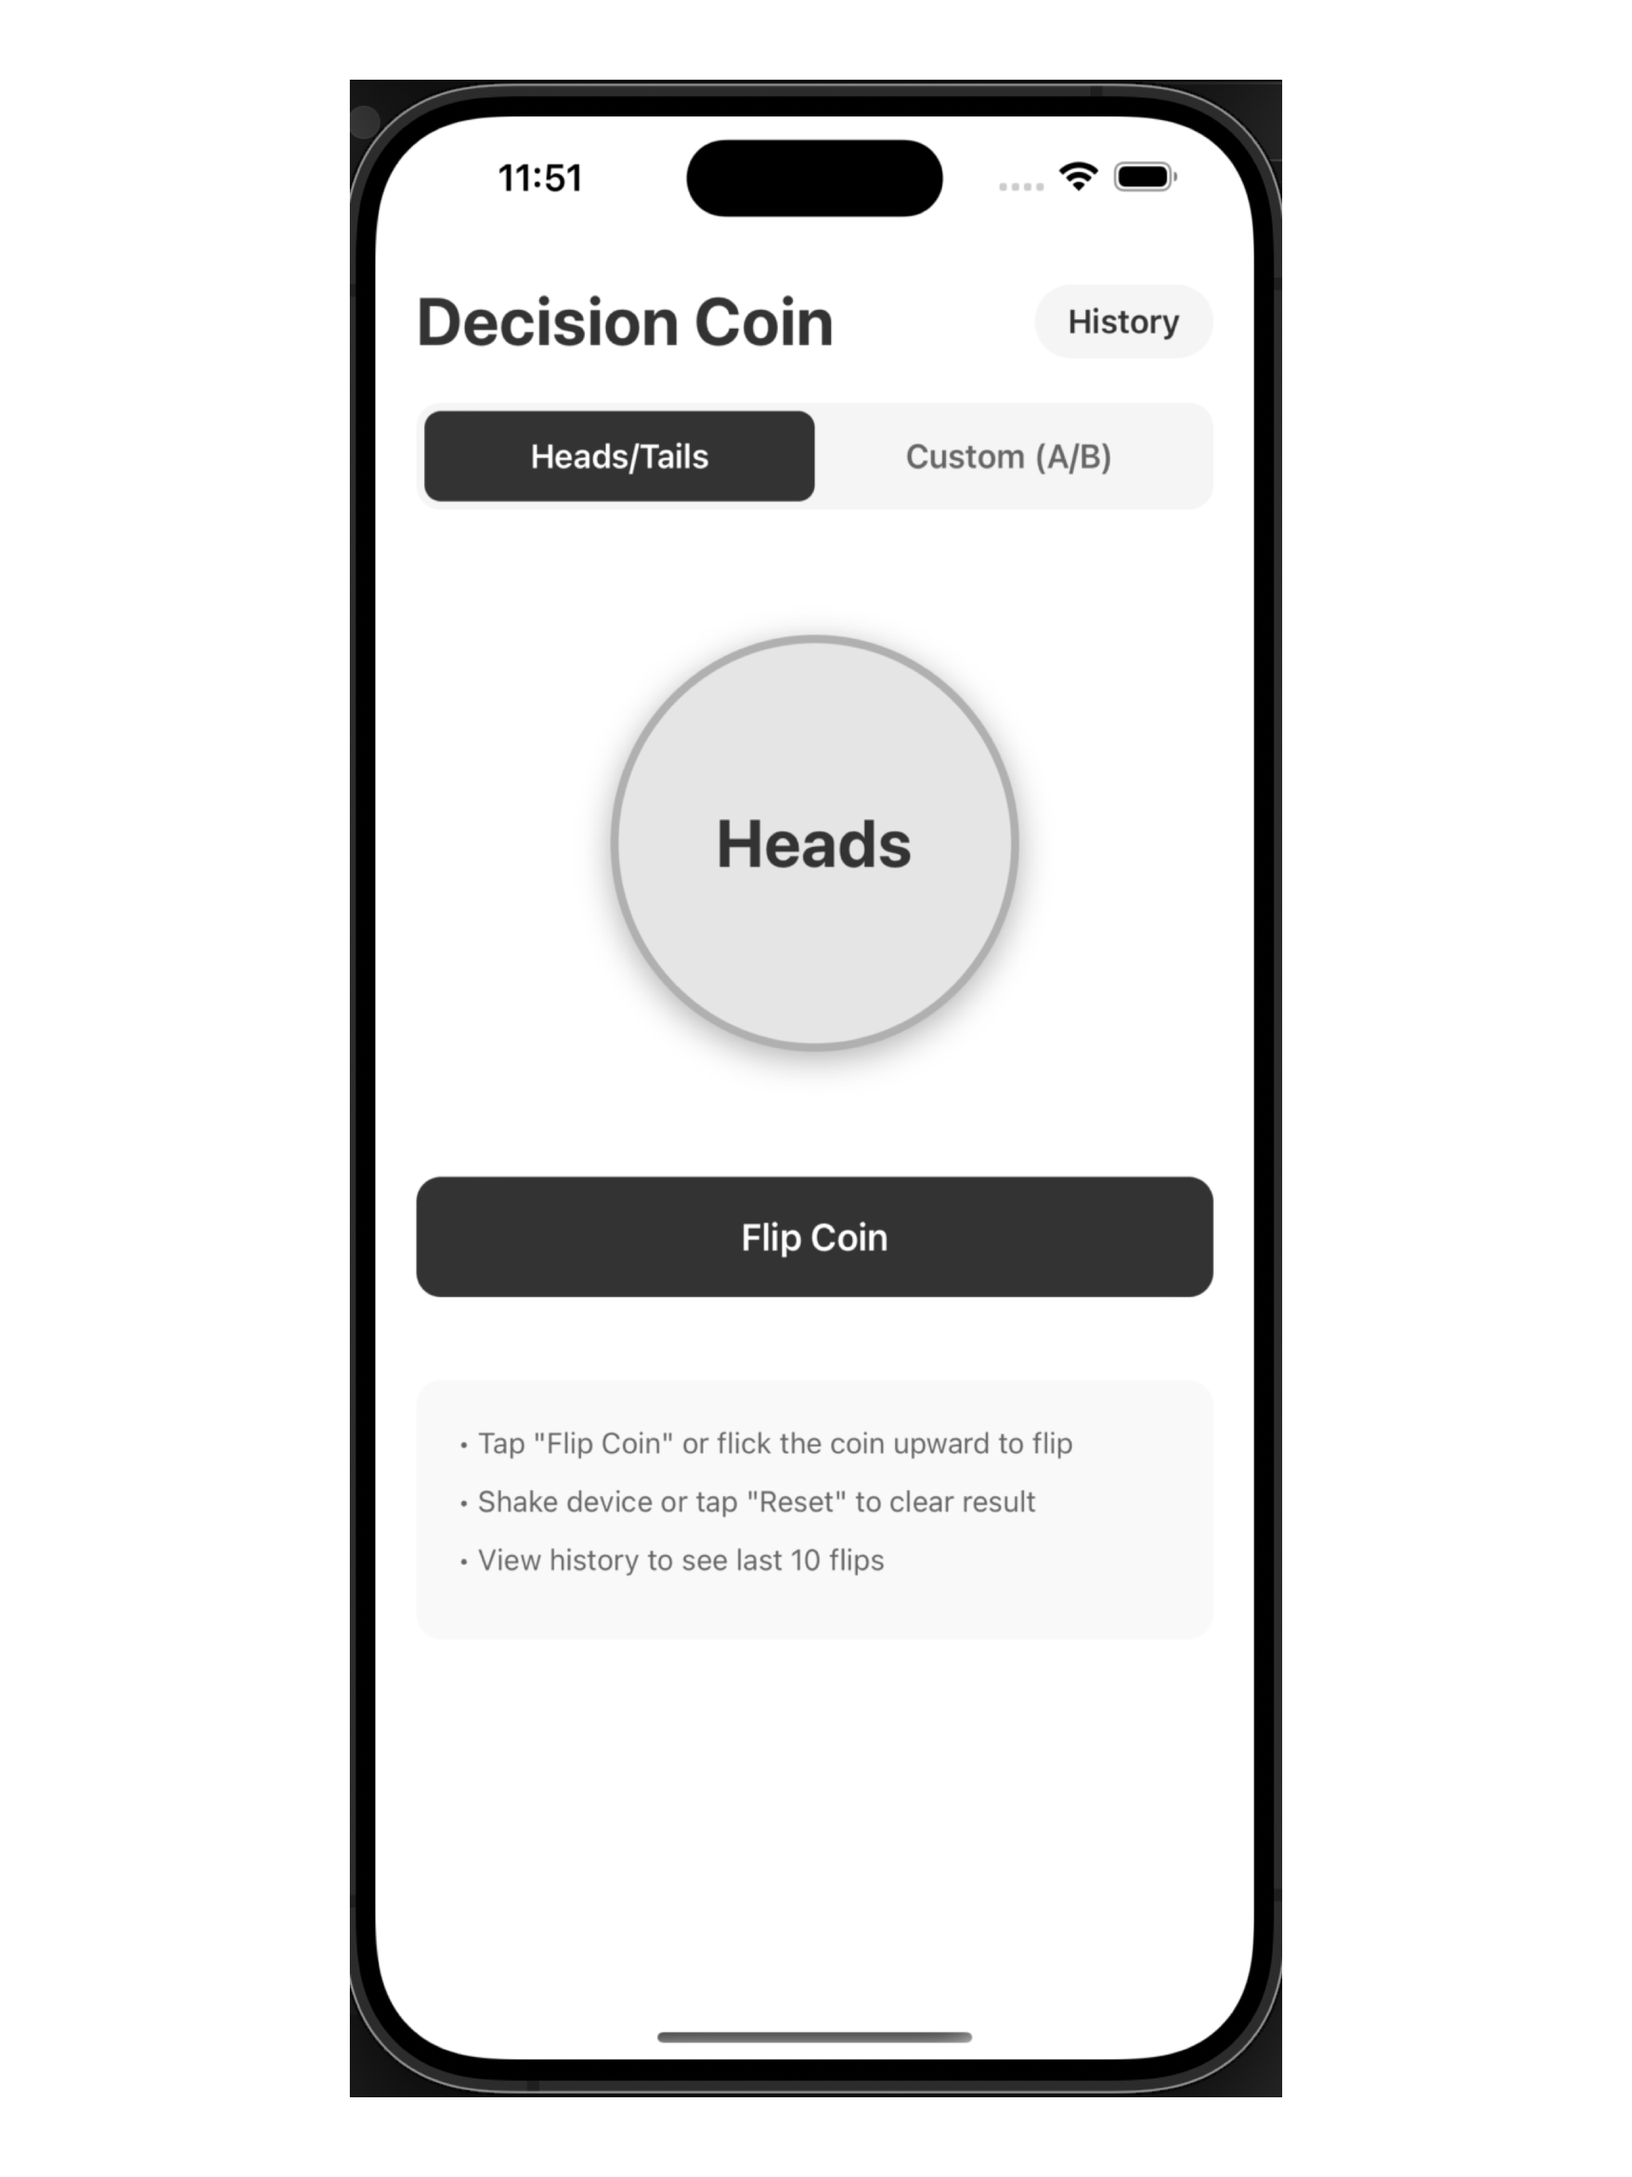
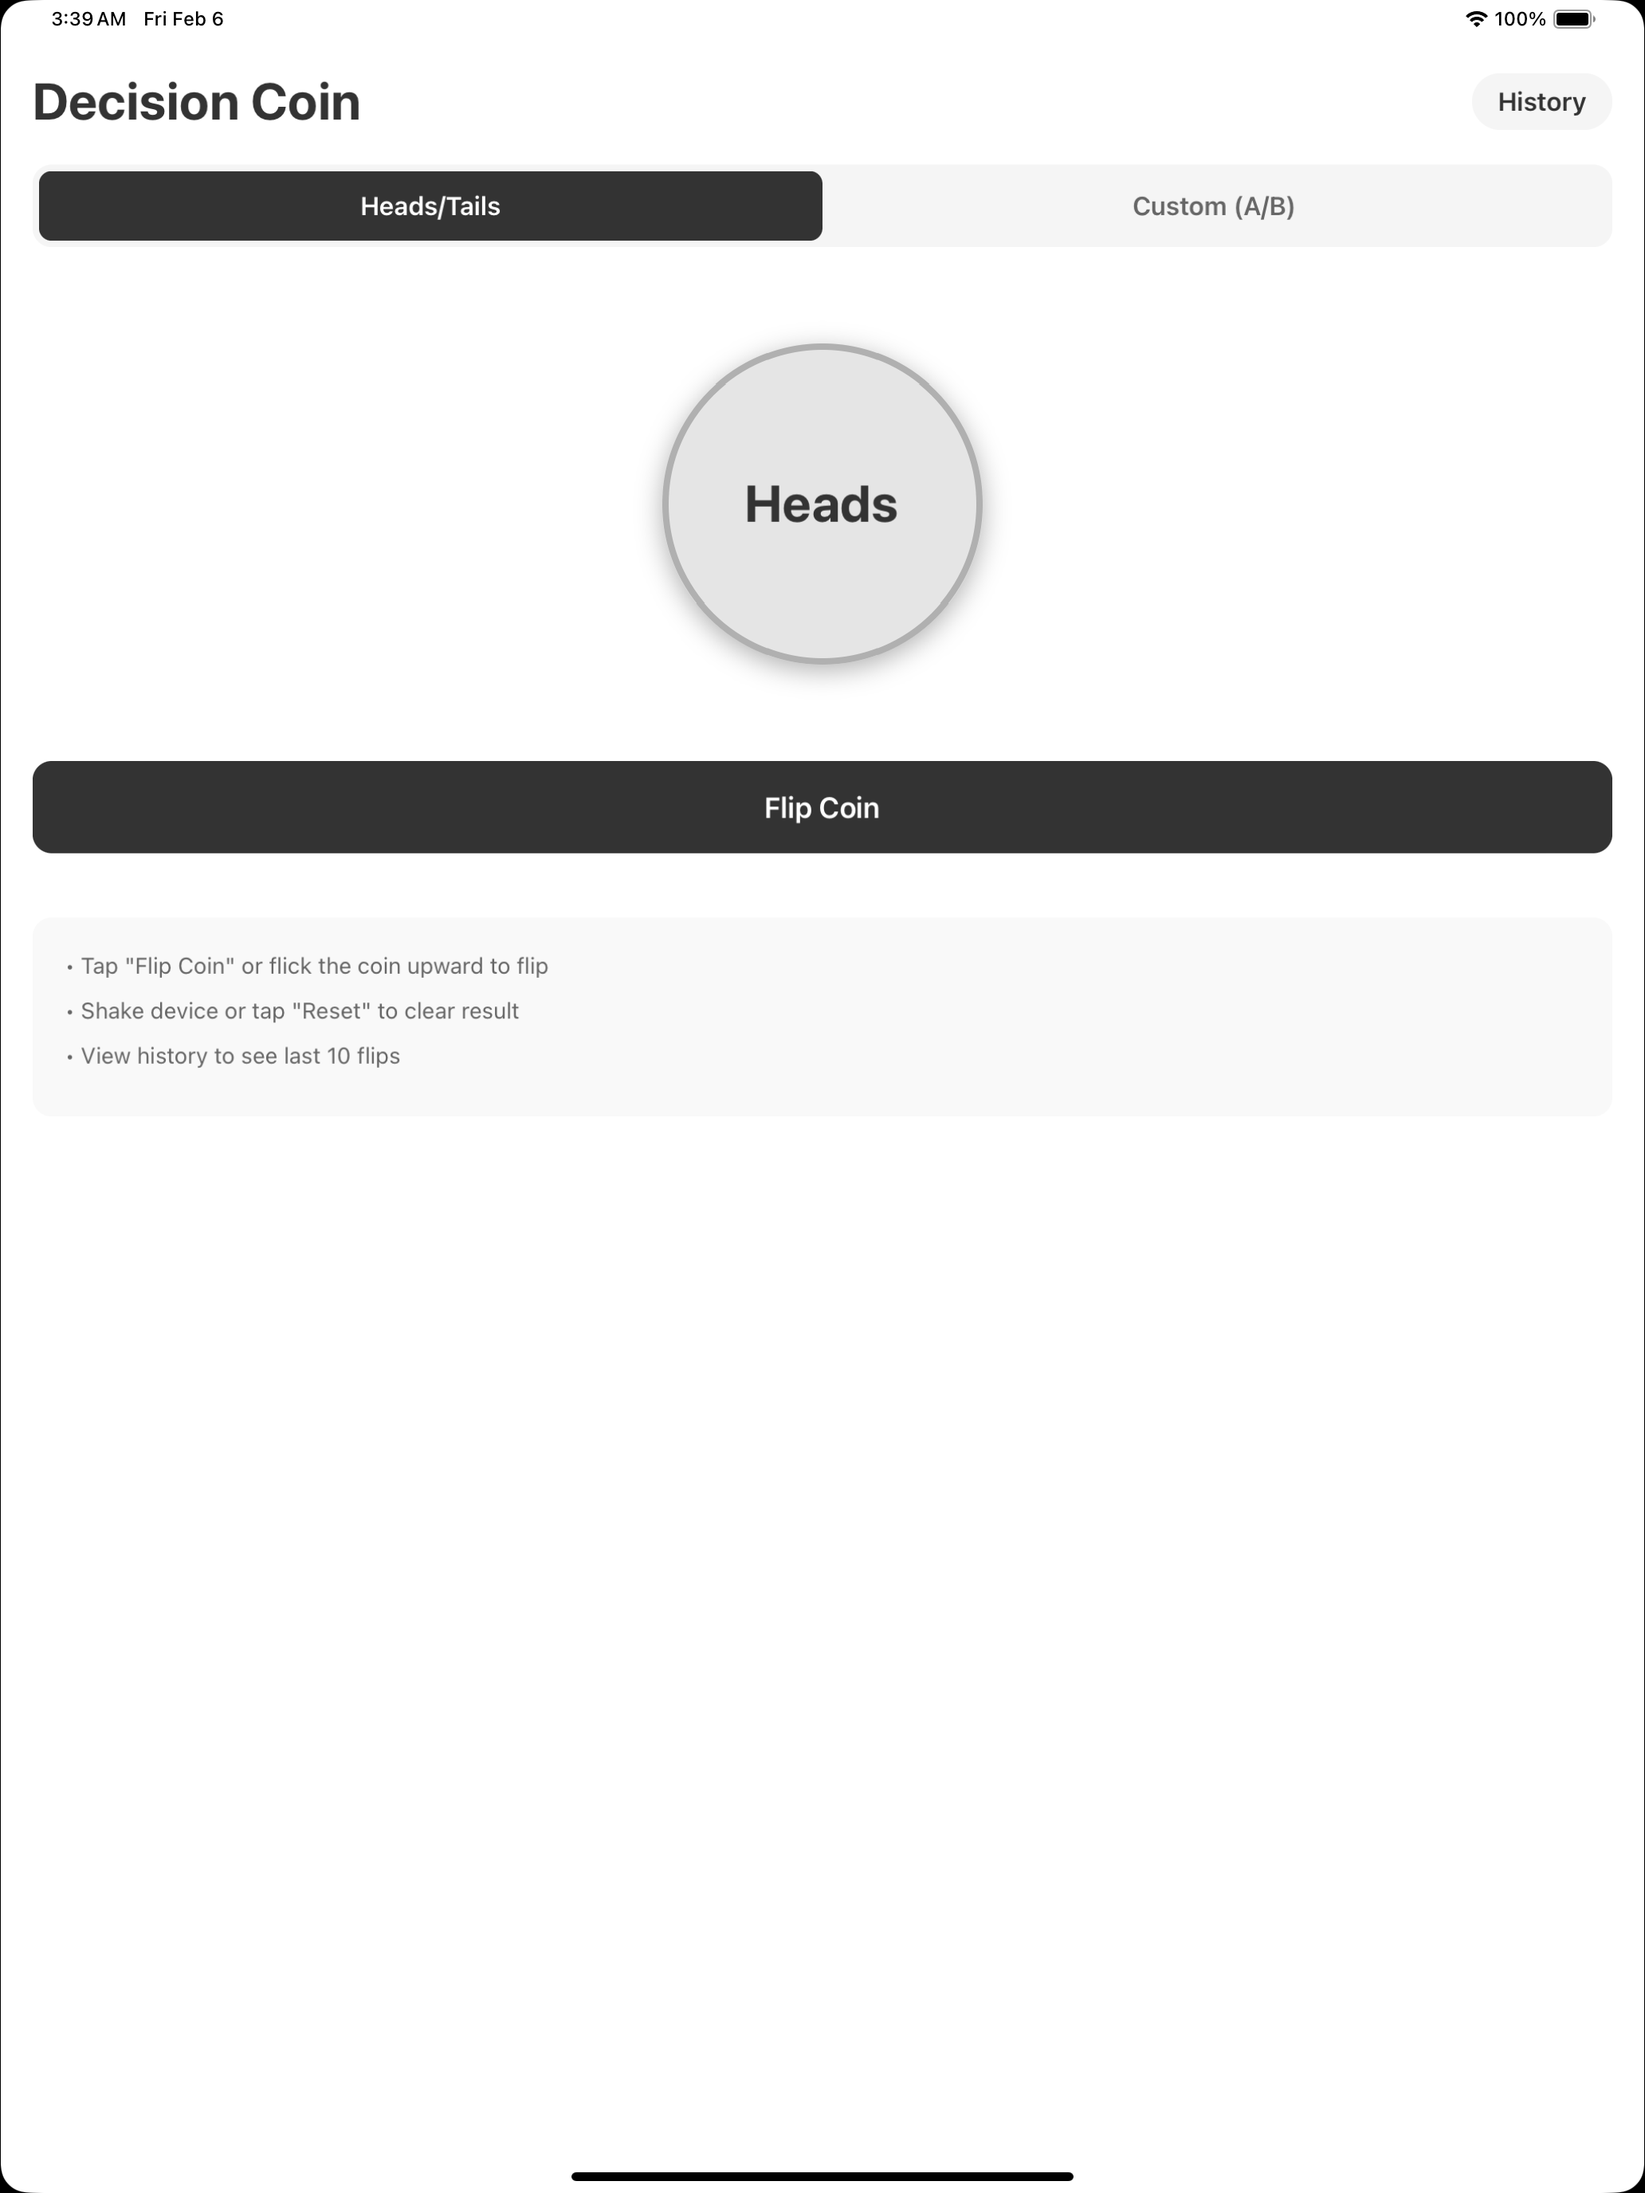
Fix App Store review issues: iPad screenshots, app name, support page
- Replace iPad screenshots with proper iPad frames at 2064x2752
- Update App Store name to "Decision Coin - Flip & Decide" in metadata
- Update support page email to correct contact address
- Update support URL in metadata to GitHub Pages

diff --git a/docs/support.html b/docs/support.html
@@ -3,7 +3,7 @@
 <head>
     <meta charset="UTF-8">
     <meta name="viewport" content="width=device-width, initial-scale=1.0">
-    <title>Support - Decision Coin</title>
+    <title>Support - Decision Coin | App Warehouse</title>
     <style>
         body { font-family: -apple-system, BlinkMacSystemFont, 'Segoe UI', Roboto, sans-serif; max-width: 800px; margin: 0 auto; padding: 40px 20px; line-height: 1.6; color: #333; }
         h1 { color: #000; }
@@ -35,7 +35,7 @@
 
     <h2>Contact Us</h2>
     <div class="contact-box">
-        <p><strong>Email:</strong> <a href="mailto:decisioncoinapp@gmail.com">decisioncoinapp@gmail.com</a></p>
+        <p><strong>Email:</strong> <a href="mailto:davidvallejo94@yahoo.com">davidvallejo94@yahoo.com</a></p>
         <p>We typically respond within 24-48 hours.</p>
     </div>
 

diff --git a/appstore-metadata.md b/appstore-metadata.md
@@ -1,7 +1,7 @@
 # App Store Metadata for Decision Coin
 
 ## App Name
-Decision Coin
+Decision Coin - Flip & Decide
 
 ## Subtitle (30 characters max)
 Quick Choices Made Simple
@@ -37,14 +37,10 @@ Download now and never be stuck on a decision again!
 coin flip,decision maker,random picker,heads tails,choice,flipper,decider,random,yes no,picker
 
 ## Support URL
-https://decisioncoin.app/support
-
-(Alternative: Create a simple GitHub Pages site or use your email as mailto:davidvallejo94@yahoo.com)
+https://decisioncoin.appwarehouse.io/support.html
 
 ## Privacy Policy URL
-https://decisioncoin.app/privacy
-
-(Host the privacy-policy.html file at this URL)
+https://decisioncoin.appwarehouse.io/privacy.html
 
 ## Copyright
 2026 David Vallejo
